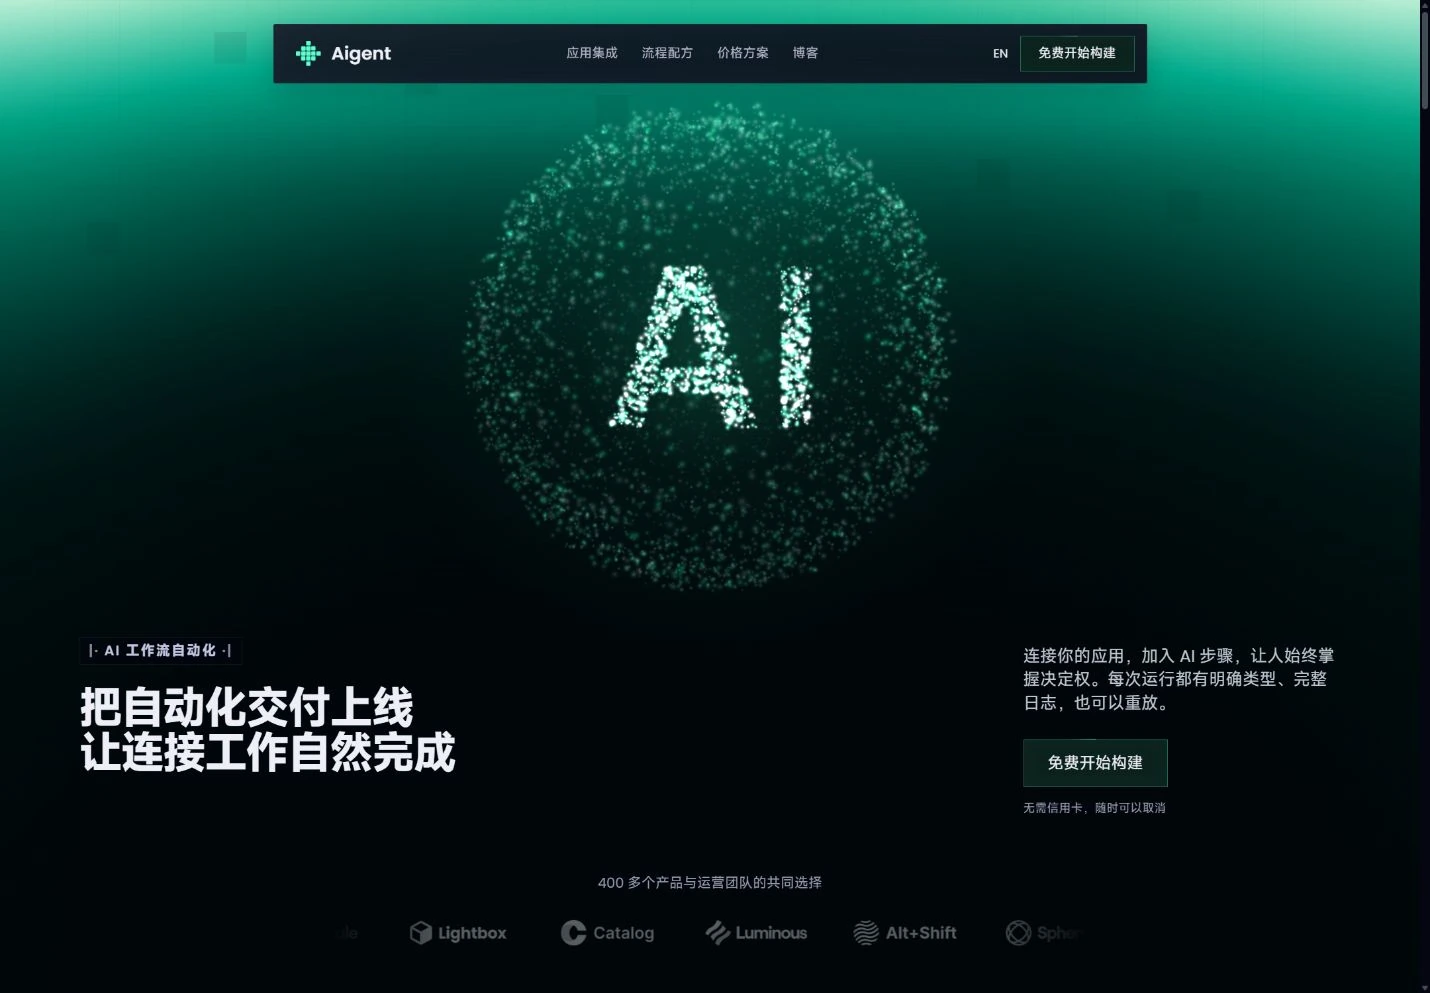
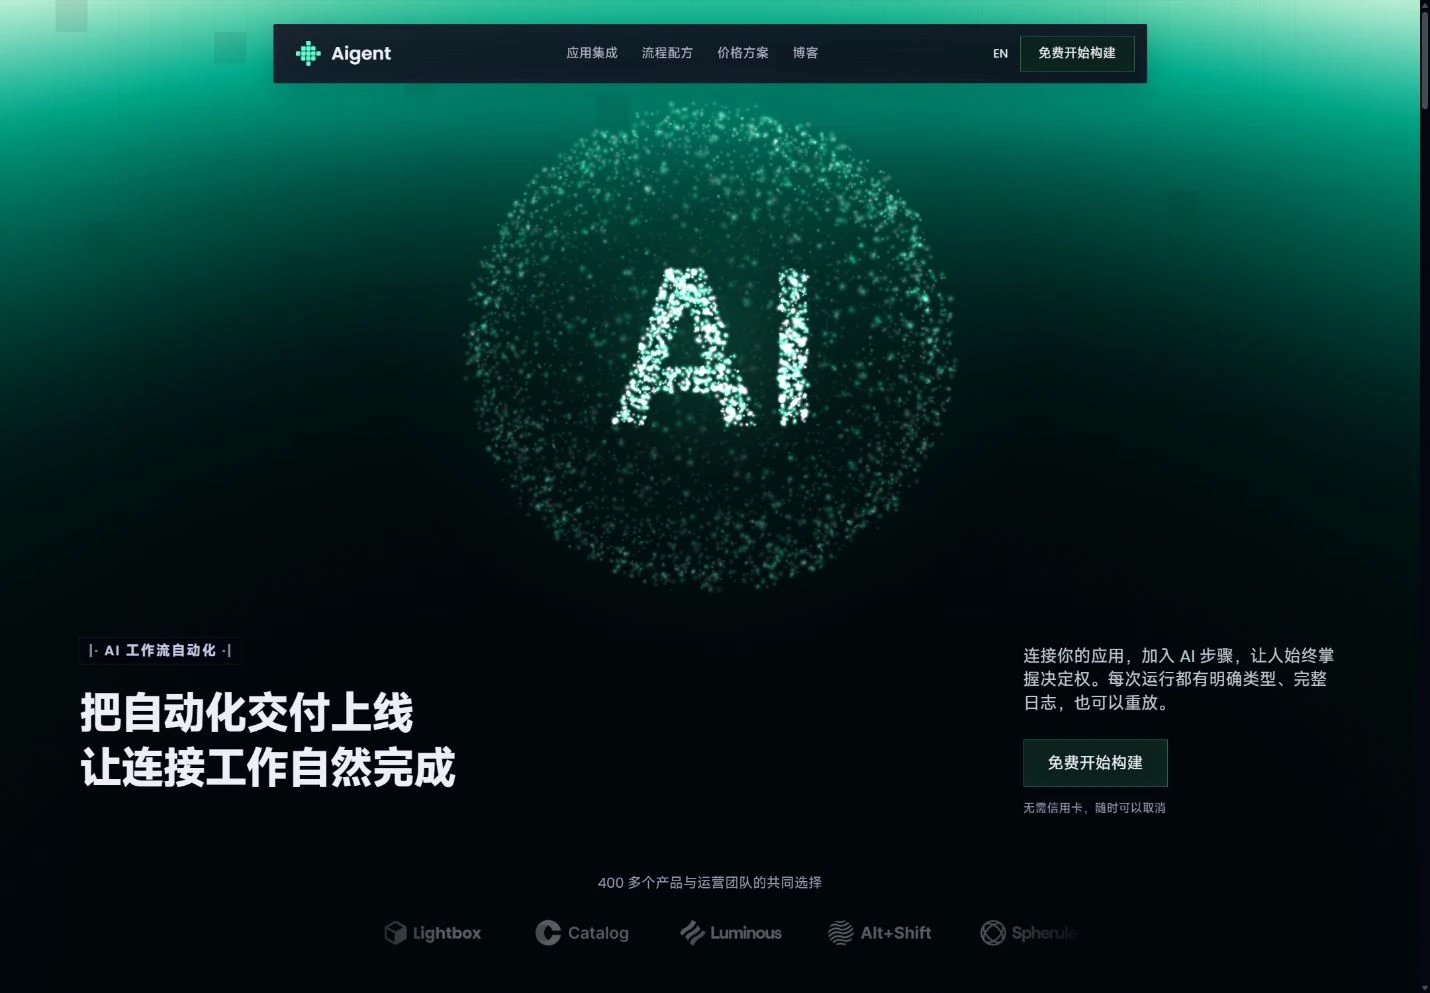
增大中文首页主标题行距并更新三端展示

Changed region(s): [[0.3077, 0.0937, 0.6769, 0.5932], [0.0615, 0.6868, 0.3385, 0.8117], [0.2769, 0.9053, 0.7385, 0.9678]]

diff --git a/src/features/site-templates/catalog/aigentx/home.css b/src/features/site-templates/catalog/aigentx/home.css
@@ -1,6 +1,6 @@
 /* 首屏独立于通用内页字号；中文保留规范比例，英文对齐参考站的两行构图。 */
-.ax-home{--ax-hero-art-height:640px;--ax-orb-size:700px;--ax-orb-top:0px;--ax-hero-title:44px;--ax-home-section-title:36px}
-.ax-home:lang(en){--ax-hero-title:68px;--ax-home-section-title:46px}
+.ax-home{--ax-hero-art-height:640px;--ax-orb-size:700px;--ax-orb-top:0px;--ax-hero-title:44px;--ax-hero-leading:1.25;--ax-home-section-title:36px}
+.ax-home:lang(en){--ax-hero-title:68px;--ax-hero-leading:1.03;--ax-home-section-title:46px}
 .ax:has(.ax-home){overflow-x:clip}
 .ax-home .ax-hero{position:relative;padding:0 24px 42px;isolation:isolate;min-height:1000px}
 .ax-home .ax-hero-bg{position:absolute;top:-40px;left:50%;width:calc(100vw - var(--ax-scroll-width));max-width:none;height:1050px!important;object-fit:fill;transform:translateX(-50%) rotate(180deg);filter:hue-rotate(296deg);z-index:-1;pointer-events:none}
@@ -8,7 +8,7 @@
 .ax-orb{position:absolute;width:var(--ax-orb-size);height:var(--ax-orb-size);left:50%;top:var(--ax-orb-top);transform:translateX(-50%);pointer-events:none}
 .ax-orb-canvas{position:absolute;left:-50%;top:-50%;width:200%;height:200%;display:block;pointer-events:none}
 .ax-hero-copy{position:relative;display:grid;grid-template-columns:minmax(0,1fr) 320px;gap:48px;align-items:start;padding-bottom:44px;z-index:2}
-.ax-home .ax-hero-copy h1{font-size:var(--ax-hero-title);line-height:1.03;letter-spacing:-.045em;max-width:890px}
+.ax-home .ax-hero-copy h1{font-size:var(--ax-hero-title);line-height:var(--ax-hero-leading);letter-spacing:-.045em;max-width:890px}
 .ax-hero-copy .ax-eyebrow{font:600 14px/1.5 AxPoppins,AxMiSans,sans-serif;letter-spacing:.1em;margin-bottom:22px;background:#03030f70}
 .ax-home .ax-eyebrow:before{content:'|· ';opacity:.7}.ax-home .ax-eyebrow:after{content:' ·|';opacity:.7}
 .ax-hero-copy p{font-size:17px;line-height:1.4;color:#bec5cd;margin:9px 0 24px}
@@ -154,11 +154,11 @@
 }
 @media(max-width:480px){
  .ax-home{--ax-hero-art-height:292px;--ax-orb-size:280px;--ax-orb-top:50px;--ax-hero-title:28px;--ax-home-section-title:26px}
- .ax-home:lang(en){--ax-hero-title:40px;--ax-home-section-title:32px}
+ .ax-home:lang(en){--ax-hero-title:40px;--ax-hero-leading:1.08;--ax-home-section-title:32px}
  .ax-home .ax-hero{padding-inline:14px;padding-bottom:36px}
  .ax-home .ax-hero-bg{height:850px!important;width:calc(100vw - var(--ax-scroll-width));top:-40px}
  .ax-hero-copy{gap:22px;padding-bottom:40px}
- .ax-home .ax-hero-copy h1{line-height:1.08;letter-spacing:-.04em;white-space:normal}
+ .ax-home .ax-hero-copy h1{line-height:var(--ax-hero-leading);letter-spacing:-.04em;white-space:normal}
  .ax-hero-copy p{font-size:14px;max-width:250px;line-height:1.3}
  .ax-hero-copy small{font-size:11px;margin-top:12px}
  .ax-hero-copy .ax-eyebrow{font-size:13px;white-space:nowrap;padding:3px 6px}

diff --git a/.tpl/docs/HOME-REVIEW.md b/.tpl/docs/HOME-REVIEW.md
@@ -20,3 +20,7 @@
 1440×1000、834×1180、390×844 和 320×844 检查中英文首页。实际触发粒子点击、滚动回顶、团队切换、滑块两端、信息流暂停及手机菜单。类型、Lint、测试、构建和真实 HTTP 结果以当前源码绑定报告为准。
 
 本轮修正上述主要视觉结构，不声明逐帧一致。噪声分布、部分缓动、按钮像素高光和原站精确节奏仍有差异；系统减少动态效果分支没有实机切换验收。原站平板复取一度超时，其结构同时以已取得的参考 CSS 核对。字体、双语与演示说明按本模板约束适配。素材权利限制继续有效。
+
+## 1.0.2 中文标题行距修正
+
+中文首页主标题原先沿用英文紧凑行距，现按语言设置为 1.25，桌面/平板 44px 字号对应 55px 行高，手机 28px 对应 35px。英文桌面 1.03、手机 1.08 保持原值。三端中文首页无横向溢出；本次只复查标题排版，原 1.0.1 的整站交互证据保留为历史记录。
